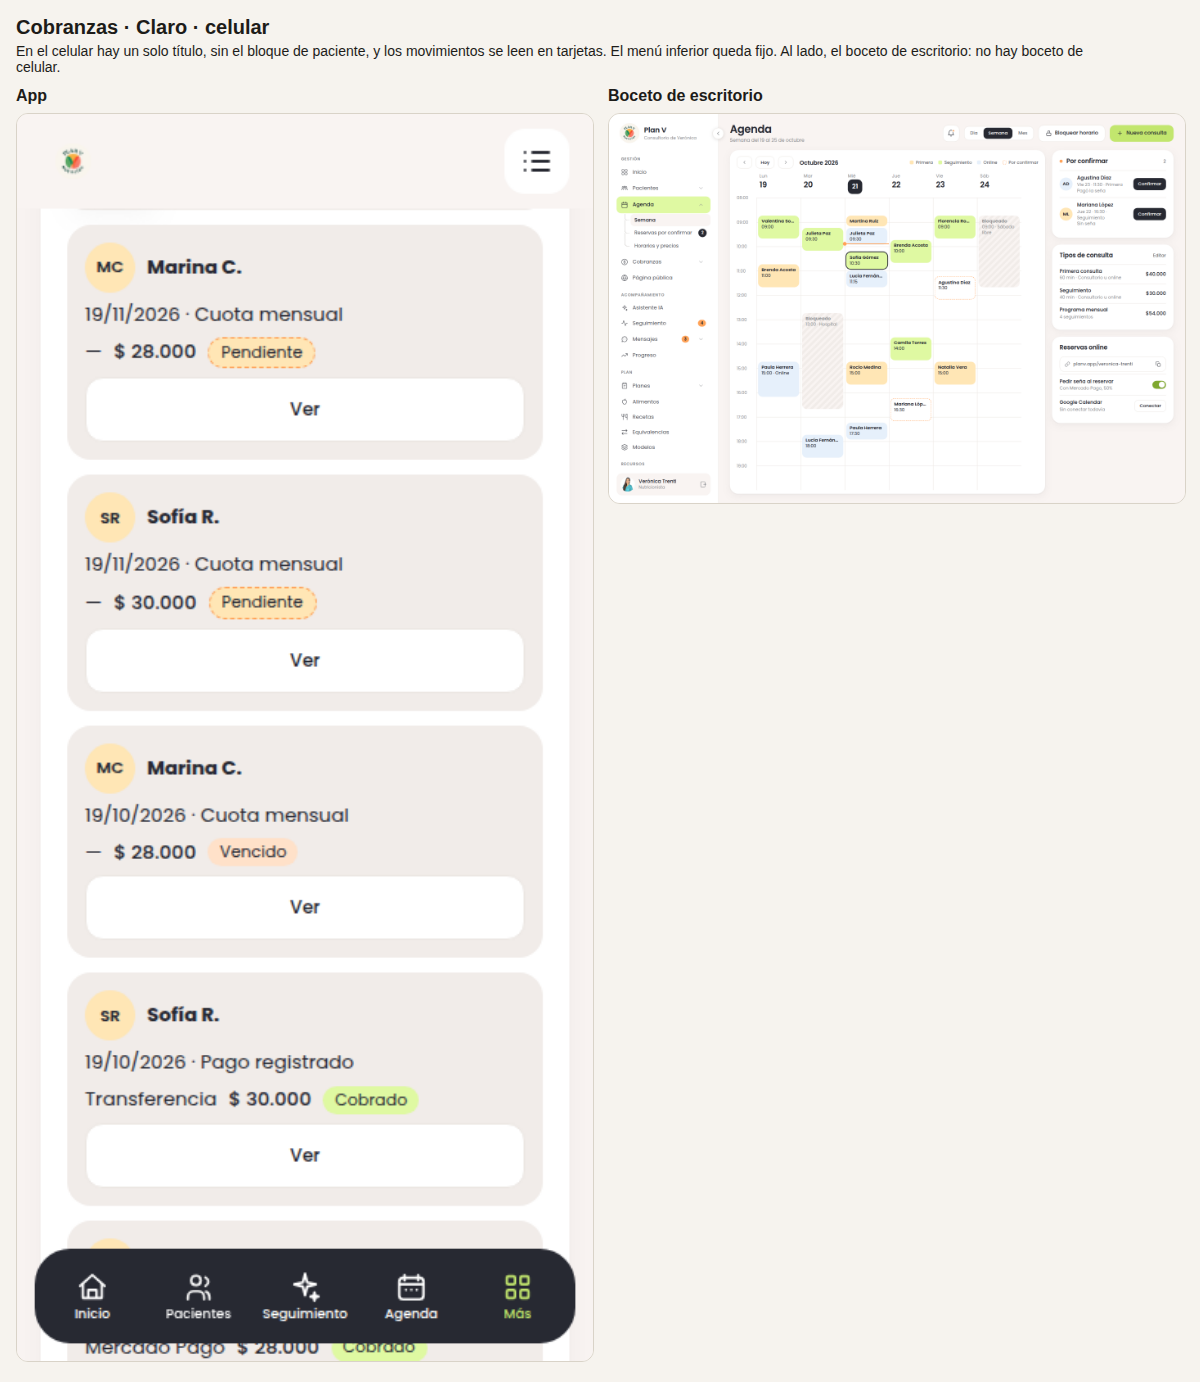
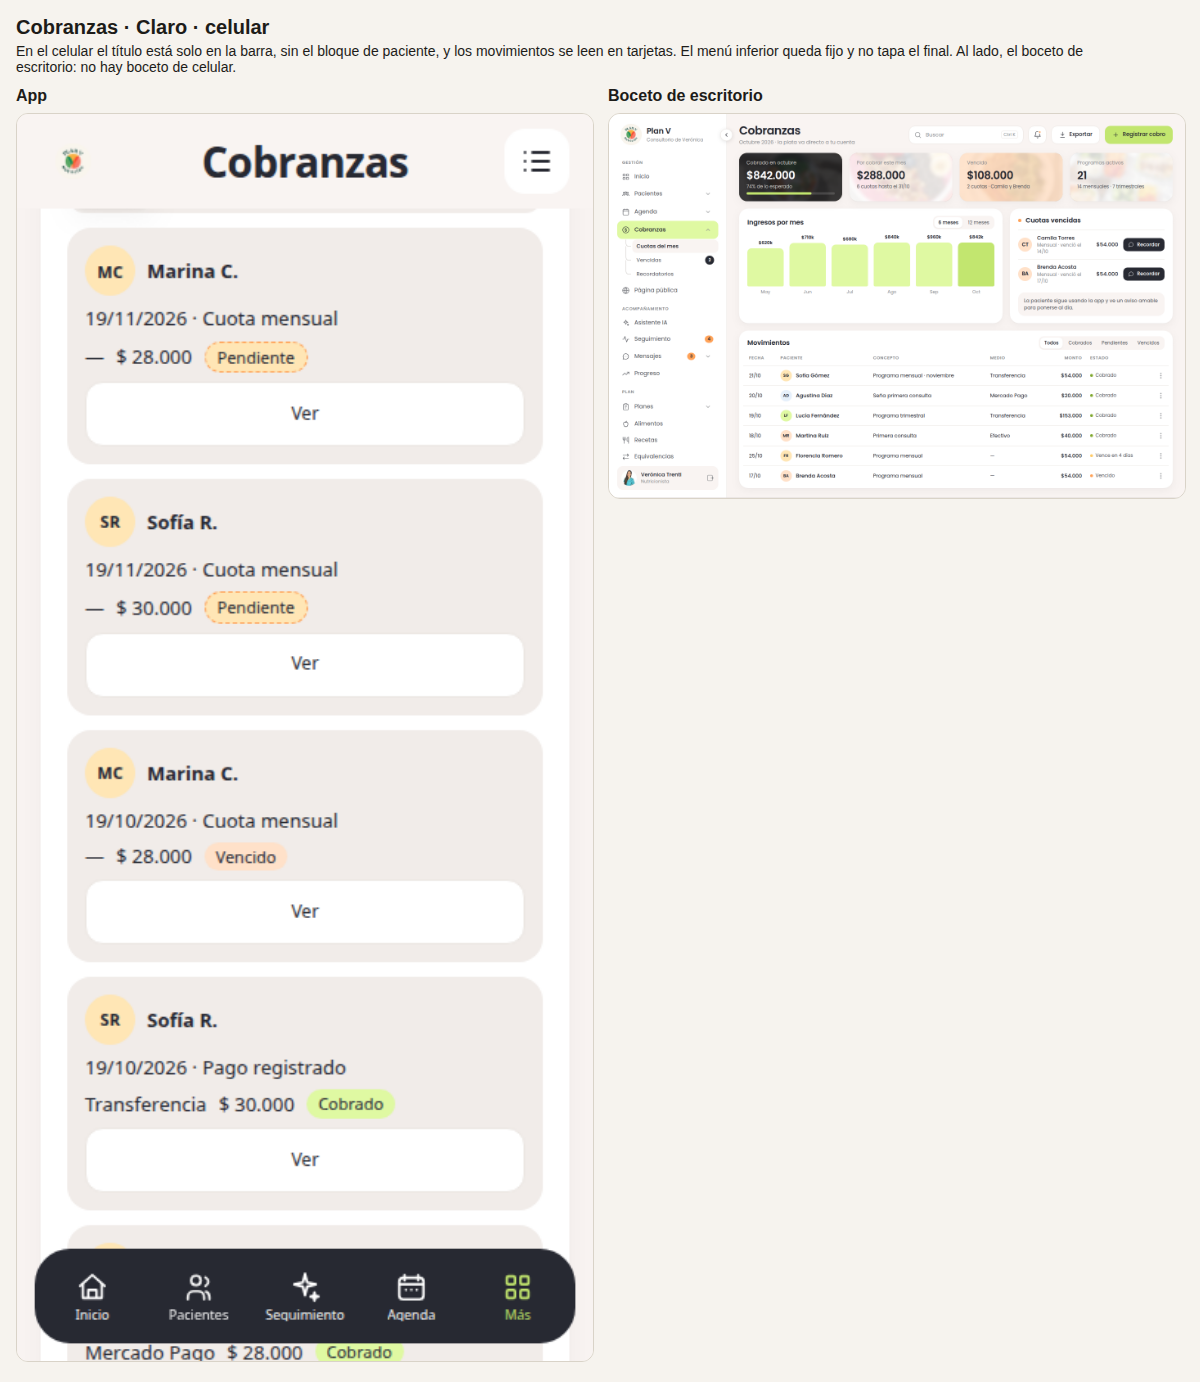
En el celular, Agenda y Cobranzas muestran el título en la barra y no lo repiten.
La Página pública marca Más. Las capturas de 390, claro y oscuro, salen del panel real.

diff --git a/src/components/nutrigo/NutrigoShowroom.tsx b/src/components/nutrigo/NutrigoShowroom.tsx
@@ -296,7 +296,10 @@ export function NutrigoShowroom({ darkMode: incomingDarkMode, onToggleTheme, loc
   const tabs = role === 'patient' ? PATIENT_TABS : PRO_TABS;
   const carteraUnread = useCarteraUnread(role === 'pro');
   const moreItems = role === 'patient' ? PATIENT_MORE : proMore(isAdmin === true);
-  const { moreCurrent } = tabBarState(page, tabs, moreItems);
+  const publicPage = role === 'pro' && page === 'agenda' && panelQuery.get('agenda') === 'publica';
+  const { moreCurrent: moreSection } = tabBarState(page, tabs, moreItems);
+  const moreCurrent = publicPage || moreSection;
+  const barLabel = publicPage ? 'Página pública' : (figmaDetail?.title ?? libraryRecipeTitle ?? PAGE_LABELS[page]);
   const showHeading = page === 'inicio';
   const localProUnread = role === 'pro' ? activePatients.reduce((sum, person) => sum + unreadCount(person.messages.filter((message) => message.patient_id === person.id && Boolean(message.sent_at)), 'pro'), 0) : 0;
   const messageUnread = role === 'patient' && p
@@ -477,9 +480,9 @@ export function NutrigoShowroom({ darkMode: incomingDarkMode, onToggleTheme, loc
     <div className="nv-workspace" inert={role === 'pro' && compactHeader && menuOpen}>
       <header className="nv-topbar" ref={topbarRef}>
         <a className="nv-brand" href={buildAppHref(typeof window === 'undefined' ? 'https://plan.v/app/inicio' : window.location.href, role, 'inicio')} onClick={(event) => { event.preventDefault(); navigate('inicio'); }}><Mark /><span>Plan V</span></a>
-        {role === 'pro' && page === 'inicio' ? <PanelHomeHeader name={userName ?? ''} now={now} onOpen={openWorkHref} /> : <h1 className="nv-topbar-title" aria-hidden={role === 'pro' && (page === 'agenda' || page === 'cobranzas') ? true : undefined} aria-label={figmaDetail?.title ?? libraryRecipeTitle ?? PAGE_LABELS[page]}>
-          <span className="nv-topbar-label-desktop">{figmaDetail?.title ?? libraryRecipeTitle ?? PAGE_LABELS[page]}</span>
-          <span className="nv-topbar-label-mobile" aria-hidden="true">{figmaDetail?.title ?? libraryRecipeTitle ?? MOBILE_PAGE_LABELS[page] ?? PAGE_LABELS[page]}</span>
+        {role === 'pro' && page === 'inicio' ? <PanelHomeHeader name={userName ?? ''} now={now} onOpen={openWorkHref} /> : <h1 className="nv-topbar-title" aria-label={barLabel}>
+          <span className="nv-topbar-label-desktop">{barLabel}</span>
+          <span className="nv-topbar-label-mobile" aria-hidden="true">{publicPage ? 'Página pública' : (figmaDetail?.title ?? libraryRecipeTitle ?? MOBILE_PAGE_LABELS[page] ?? PAGE_LABELS[page])}</span>
         </h1>}
         <div className="nv-desktop-account">{!compactHeader && accountMenu()}</div>
         <button type="button" className="nv-button nv-ghost nv-menu-toggle" ref={menuButtonRef} aria-label={menuOpen ? 'Cerrar el menú' : 'Abrir el menú'} aria-expanded={menuOpen} aria-controls="nv-drawer" onClick={() => setMenuOpen((open) => !open)}><Icon name="list" size={20} /></button>
@@ -519,7 +522,7 @@ export function NutrigoShowroom({ darkMode: incomingDarkMode, onToggleTheme, loc
     </div>
     {menuOpen && <div className="nv-drawer-scrim" role="presentation" onClick={() => { setMenuOpen(false); menuButtonRef.current?.focus(); }} />}
     <nav className="nv-tabbar" inert={role === 'pro' && compactHeader && menuOpen} aria-label="Secciones principales">
-      {tabs.map((tab) => <button key={tab.id} type="button" aria-current={!pendingModule && page === tab.id ? 'page' : undefined} onClick={() => navigate(tab.id)}><span className="nv-tab-icon"><Icon name={tab.icon} size={22} />{tab.id === 'mensajes' && messageUnread > 0 && <b className="nv-tab-unread" aria-label={`${messageUnread} sin leer`}>{messageUnread > 9 ? '9+' : messageUnread}</b>}</span><span>{tab.label}</span></button>)}
+      {tabs.map((tab) => <button key={tab.id} type="button" aria-current={!pendingModule && !publicPage && page === tab.id ? 'page' : undefined} onClick={() => navigate(tab.id)}><span className="nv-tab-icon"><Icon name={tab.icon} size={22} />{tab.id === 'mensajes' && messageUnread > 0 && <b className="nv-tab-unread" aria-label={`${messageUnread} sin leer`}>{messageUnread > 9 ? '9+' : messageUnread}</b>}</span><span>{tab.label}</span></button>)}
       <button type="button" aria-current={moreCurrent ? 'page' : undefined} aria-expanded={moreOpen} aria-controls="nv-more-sheet" onClick={() => setMoreOpen(true)}><span className="nv-tab-icon"><Icon name="grid" size={22} />{role === 'pro' && messageUnread > 0 && <b className="nv-tab-unread" aria-label={`${messageUnread} sin leer`}>{messageUnread > 9 ? '9+' : messageUnread}</b>}</span><span>Más</span></button>
     </nav>
     {moreOpen && <div className="nv-more" role="presentation" onClick={() => setMoreOpen(false)}>

diff --git a/src/components/nutrigo/panel-nutri-shell.css b/src/components/nutrigo/panel-nutri-shell.css
@@ -43,7 +43,10 @@
 .nv-app.nv-pro.pn-panel .nv-topbar { position:relative; top:auto; bottom:auto; left:auto; width:auto; min-height:76px; padding:24px 30px 8px; gap:12px; background:transparent; border:0; }
 .nv-app.nv-pro.pn-panel .nv-topbar>.nv-brand { display:none; }
 .nv-app.nv-pro.pn-panel .nv-topbar .nv-topbar-title { display:block; font-size:28px; line-height:1.1; letter-spacing:-.02em; color:var(--pn-ink); }
-.nv-app.nv-pro.pn-panel:is(.nv-agenda-page,.nv-fees-page) .nv-topbar-title { position:absolute; width:1px; height:1px; overflow:hidden; clip:rect(0 0 0 0); }
+.nv-app.nv-pro.pn-panel .nv-topbar-label-mobile { display:none; }
+@media (min-width:800px) {
+  .nv-app.nv-pro.pn-panel:is(.nv-agenda-page,.nv-fees-page) .nv-topbar-title { display:none; }
+}
 .nv-app.nv-pro.pn-panel .nv-user-avatar { background:var(--pn-saffron); color:var(--pn-on-color); }
 .nv-app.nv-pro.pn-panel .nv-user-menu { background:var(--pn-white); color:var(--pn-ink); border:1px solid var(--pn-line); box-shadow:var(--pn-shadow); min-width:270px; max-width:calc(100vw - 32px); z-index:60; }
 .nv-app.nv-pro.pn-panel .nv-user-menu>button { color:var(--pn-ink); }
@@ -118,7 +121,10 @@
   .nv-app.nv-pro.pn-panel.nv-menu-open .nv-sidebar { transform:translateX(0); visibility:visible; }
   .pn-panel .pn-collapse { display:none; }
   .nv-app.nv-pro.pn-panel .nv-topbar { position:sticky; top:0; padding:14px 16px; min-height:64px; background:var(--pn-cream); z-index:30; }
-  .nv-app.nv-pro.pn-panel .nv-topbar-title { font-size:22px; }
+  .nv-app.nv-pro.pn-panel .nv-topbar-title { flex:1; min-width:0; overflow:hidden; font-size:16px; text-align:center; text-overflow:ellipsis; white-space:nowrap; color:var(--pn-ink); }
+  .nv-app.nv-pro.pn-panel .nv-topbar-label-desktop { display:none; }
+  .nv-app.nv-pro.pn-panel .nv-topbar-label-mobile { display:inline; }
+  .pn-panel:is(.nv-agenda-page,.nv-fees-page) .p5-head h2 { display:none; }
   .nv-app.nv-pro.pn-panel .nv-menu-toggle { display:flex !important; margin-left:auto; width:44px; height:44px; min-width:44px; min-height:44px; }
   .nv-app.nv-pro.pn-panel .nv-sidebar a { min-height:44px; }
   .nv-app.nv-pro.pn-panel .nv-main { padding:8px 16px calc(108px + env(safe-area-inset-bottom)); overflow:visible; gap:14px; }

diff --git a/src/components/nutrigo/panel-mobile.test.ts b/src/components/nutrigo/panel-mobile.test.ts
@@ -4,12 +4,18 @@ import { describe, expect, it } from 'vitest';
 const shell = readFileSync(new URL('./panel-nutri-shell.css', import.meta.url), 'utf8');
 const fase5 = readFileSync(new URL('./panel-fase5.css', import.meta.url), 'utf8');
 const showroom = readFileSync(new URL('./NutrigoShowroom.tsx', import.meta.url), 'utf8');
+const phone = shell.slice(shell.indexOf('@media (max-width:799px)'));
 
 describe('celular de Agenda y Cobranzas', () => {
-  it('no repite el título y no muestra los accesos de paciente en esas pantallas', () => {
-    expect(shell).toMatch(/\.nv-app\.nv-pro\.pn-panel:is\(\.nv-agenda-page,\.nv-fees-page\) \.nv-topbar-title \{ position:absolute;/);
+  it('en el celular el título queda en la barra y no se repite en la página', () => {
+    expect(shell).not.toMatch(/clip:rect/);
+    expect(shell).toMatch(/@media \(min-width:800px\) \{\n  \.nv-app\.nv-pro\.pn-panel:is\(\.nv-agenda-page,\.nv-fees-page\) \.nv-topbar-title \{ display:none; \}/);
+    expect(phone).toMatch(/\.pn-panel:is\(\.nv-agenda-page,\.nv-fees-page\) \.p5-head h2 \{ display:none; \}/);
+    expect(phone).toMatch(/\.nv-app\.nv-pro\.pn-panel \.nv-topbar-label-desktop \{ display:none; \}/);
+    expect(phone).toMatch(/\.nv-app\.nv-pro\.pn-panel \.nv-topbar-label-mobile \{ display:inline; \}/);
     expect(showroom).toContain("'agenda', 'cobranzas'");
-    expect(showroom).toContain("page === 'agenda' || page === 'cobranzas'");
+    expect(showroom).not.toContain("page === 'agenda' || page === 'cobranzas'");
+    expect(showroom).toContain("const moreCurrent = publicPage || moreSection");
   });
 
   it('fija el menú inferior y separa cada turno con su etiqueta', () => {

diff --git a/docs/panel-nutri-rediseno/plan.md b/docs/panel-nutri-rediseno/plan.md
@@ -244,6 +244,11 @@ Facundo pidió que funcionen. Verificar primero si ya existen en `main`; si no, 
 
 ## 8. Bitácora (una entrada por paso, la más nueva arriba)
 
+### 2026-10-20 00:10 · Cursor · Título en la barra del celular
+- Hecho: en Agenda y Cobranzas el celular muestra el título en la barra de arriba y no lo repite en la página. En escritorio el título sigue en la página, como el boceto. La Página pública marca «Más». Siguen ocultos los accesos de Pacientes, Ficha y Plan. Los turnos siguen en filas con su etiqueta y el menú inferior sigue fijo.
+- Cómo: break-ui, frontend-patterns, frontend-a11y y verification-loop. Capturas nuevas de 390, claro y oscuro, dentro del panel de demostración, al lado del boceto de escritorio en `design/panel-nutri/fase-5/`.
+- Rama y PR: `cursor/arreglo-mobile-fase5`, [PR #158](https://github.com/Facu42/plan-v/pull/158), borrador contra main. No se junta.
+
 ### 2026-10-19 23:30 · Cursor · Celular de Agenda y Cobranzas
 - Hecho: Facu rechazó el celular. Agenda y Cobranzas muestran el título una sola vez. El bloque Pacientes/Ficha/Plan no aparece ahí. Cada turno es una fila con la hora, el nombre y la etiqueta separada. En el celular, Movimientos es una lista de tarjetas y el nombre no se parte letra por letra. El menú inferior queda fijo y deja espacio, así no tapa el contenido.
 - Cómo: se aplicaron break-ui, frontend-patterns, frontend-a11y y verification-loop. Se midió 360, 390 y 430: sin desborde y con botones de al menos 44 px. Las capturas se sacaron del panel real, con su menú, y quedaron al lado del boceto de escritorio en `design/panel-nutri/fase-5/`. No hay boceto de celular.

diff --git a/docs/coordinacion-agentes.md b/docs/coordinacion-agentes.md
@@ -79,6 +79,7 @@ del piloto, entidad legal.
 
 ## 5. Bitácora de traspaso (la más nueva arriba)
 
+- **19/10 · Cursor · Título del celular en Agenda y Cobranzas** · En el [PR #158](https://github.com/Facu42/plan-v/pull/158) la barra del celular muestra el título de la sección una sola vez. La Página pública marca «Más». Capturas nuevas de Agenda y Cobranzas en 390, claro y oscuro, dentro del panel real, en `design/panel-nutri/fase-5/`. Sin merge y sin producción.
 - **19/10 · Cursor · Celular de Agenda y Cobranzas** · Facu rechazó el celular de 390. Rama `cursor/arreglo-mobile-fase5`, desde main, [PR #158](https://github.com/Facu42/plan-v/pull/158). Un solo título, sin el bloque Pacientes/Ficha/Plan, turnos en filas con etiqueta, movimientos en tarjetas y menú inferior fijo. Capturas en `design/panel-nutri/fase-5/`, el celular al lado del boceto de escritorio. 3.192 pruebas y 2 omitidas, tipos en verde. Sin merge y sin producción. El celular de las pantallas de suscripciones queda en el PR #156.
 - **19/10 · Cursor · Fase 5 con la fase 4** · Se trajo main (fase 4, #154) a `cursor/panel-nutri-fase-5`. Conviven el armazón, la ficha y Agenda, Cobranzas y Página pública. [PR #153](https://github.com/Facu42/plan-v/pull/153), sin juntar hasta que los controles estén verdes.
 - **19/10 · Cursor · Fase 5 comparada y sin WhatsApp** · Capturas en `design/panel-nutri/fase-5/`. [PR #153](https://github.com/Facu42/plan-v/pull/153). WhatsApp salió de Agenda, Cobranzas, Página pública y Conexiones. Los recordatorios abren el chat de la app. El servidor no se tocó.

diff --git a/docs/traspaso-estado-proyecto.md b/docs/traspaso-estado-proyecto.md
@@ -1,5 +1,7 @@
 # Traspaso del proyecto (actualización vigente: 2026-10-19)
 
+19/10 · Cursor · En el celular de Agenda y Cobranzas el título quedó en la barra de arriba, una sola vez. Las capturas nuevas de 390, claro y oscuro, están en `design/panel-nutri/fase-5/`, dentro del panel real y al lado del boceto de escritorio. Sigue en [PR #158](https://github.com/Facu42/plan-v/pull/158), borrador contra main. No se junta.
+
 19/10 · Cursor · El celular de Agenda y Cobranzas que ya está en main se arregla en `cursor/arreglo-mobile-fase5`, [PR #158](https://github.com/Facu42/plan-v/pull/158), borrador contra main. Un título, sin el bloque de paciente, turnos en filas y menú inferior fijo. No se junta. La fase 5 original sigue en [PR #153](https://github.com/Facu42/plan-v/pull/153). WhatsApp salió del panel. Sin SQL remoto.
 
 ## 19/10 · Ficha de la nutri, fase 4
